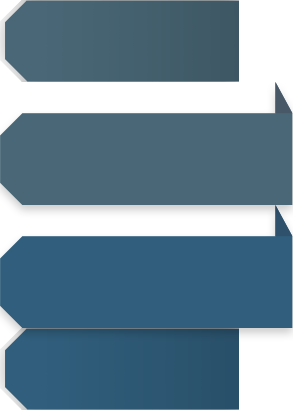
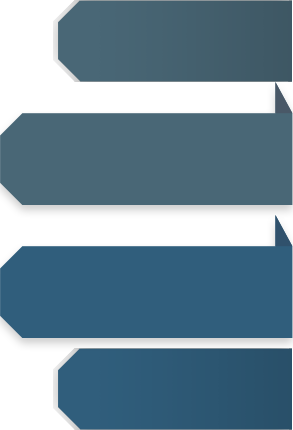
ADD page de publication MOD carrousel

diff --git a/public/css/screen.css b/public/css/screen.css
@@ -1,6 +1,6 @@
 @charset "utf-8";
 /* ------ GENERAL --------------- */
-body{
+body{background-attachment : fixed;
 	background-image : url('../images/fond_principal.jpg');
 	background-position : center top;
 	padding : 0;
@@ -63,7 +63,7 @@ margin : 75px 5px 0;
 }
 #header img.right{
 	float : right;
-	margin : 10px 10px 0 0;
+	margin : 16px 10px 0 0;
 	}
 /* FIN HEADER*/	
 /* --------------- MENU PRINCIPAL + RECHERCHE ------------------------- */
@@ -81,6 +81,7 @@ margin : 75px 5px 0;
 	height : 38px;
 	border : none;
 	margin : 0 0 0 6px ;
+	cursor : pointer;
 	background : transparent url('../images/btn_recherche.png') no-repeat left top;
 	text-indent : -9999px;
 }
@@ -139,19 +140,20 @@ margin : 75px 5px 0;
 	font-size : 14px;
 	top: 36px;
 	left:0;
-
 }
+#ul_principal li ul li a{font-size : 15px;}
+#ul_principal li ul li:hover{margin-top : -2px; font-weight : bold; text-shadow : 0 0 5px #fff ;  }
 #menu_main .jeux {
-	background : transparent url('../images/fond_blancTransparent.png') no-repeat 250px 2px ;
+	background : transparent url('../images/fond_blancTransparent.png') no-repeat 421px 2px ;
 }
 #menu_main .communaute {
-	background : transparent url('../images/fond_blancTransparent.png') 800px 2px no-repeat;
+	background : transparent url('../images/fond_blancTransparent.png') 287px 2px no-repeat;
 }
 #menu_main .joueurs {
-	background : transparent url('../images/fond_blancTransparent.png') 800px 2px no-repeat;
+	background : transparent url('../images/fond_blancTransparent.png') 192px 2px no-repeat;
 }
 #menu_main .enquete {
-	background : transparent url('../images/fond_blancTransparent.png') 800px 2px no-repeat;
+	background : transparent url('../images/fond_blancTransparent.png') 96px 2px no-repeat;
 }
 #menu_main .krysalis {
 	background : transparent url('../images/fond_blancTransparent.png') 0px 2px no-repeat;
@@ -206,7 +208,7 @@ margin : 75px 5px 0;
 .navigation{
 	position :absolute;
 	top : 18px;
-	right : 16px;
+	right : 15px;
 }
 .navigation h3{
 	color : white;
@@ -216,15 +218,33 @@ margin : 75px 5px 0;
 	line-height : 82px;
 	vertical-align : middle;
 	padding-left : 23px;
-	background : url('../images/carrousel/btn_pagHaut.png') no-repeat top left;
+	background : url('../images/carrousel/btn_pagHaut.png') no-repeat right top;
+}
+.navigation h3.bas{
+	background : url('../images/carrousel/btn_pagBas.png') no-repeat right top;
 }
 
-.navigation h3:hover, .navigation h3.active{
-	background-position : left bottom;
+.navigation h3:hover, .navigation .active:hover{
+	position : absolute;
+	z-index : 50;
+	background-position : 0 -215px;
+	height : 133px;
+	line-height : 92px; /* centrer le texte : largeur de l'onglet(92) + 5 px de margin top*/
+	font-size : 1.8em;
+	width : 293px;
+	margin-left : -37px;
+}
+.navigation h3.active{
+	background-position : right bottom;
 }
 
 .navigation h3:active{
-	background-position : left top;
+	position : absolute;
+	z-index : 50;
+	background-position : 0 -82px;
+	margin-top : 10px;
+	margin-left : -37px;
+	/*margin-top : -11px;*/
 }
 
 
@@ -233,6 +253,8 @@ margin : 75px 5px 0;
 	padding : 111px 69px 10px 69px;
 	background : url('../images/bg_resumeHome.png') repeat-y center top;
 	}
+	
+#resume a, #resume:visited{color : #369; text-decoration : underline;}
 /*-------------- FIN DU CARROUSEL -----------------*/	
 /*------------  MENU DE PAGE ---------------------*/
 #menu_content{ position : relative;float : left;}
@@ -419,6 +441,7 @@ text-decoration : none;
 	vertical-align : middle ;
 	
 }
+/*#infos select{border : 1px solid #ccc;}*/
 #infos #birthday{ margin-left : 12%;}
 #infos  p label.radio{
 	padding :0  3px 0 34%;
@@ -444,6 +467,31 @@ width : auto;
 #contact_form #champ_com{width : auto; height : auto;}	
 
 #contact_form textarea{clear : both;width : 450px; height : 140px;}
+
+/************************************************/
+/*        PAGE PUBLICATIONS                     */
+/************************************************/
+#articles_publies{margin-top : 10px; clear : both}
+#page h4{font-variant : small-caps;font-size: 1.3em;;}
+
+.article{position : relative;clear : both;}
+.conteneur_img{
+	position : relative;
+	width : 263px; 
+	min-height : 138px;
+	background : url('../images/bg_publiImg.png') no-repeat left top;
+	float : left;}
+.publi_img{padding : 5px 0 0 5px;
+width : 250px;
+height : 125px;
+overflow: hidden;}
+
+.resume_article{float : right; width : 60%;margin :0 20px 10px 0;}
+.resume_article h5{margin : 0; font-size : 1.1em;}
+.resume_article p{margin : 0.25em 0;}
+
+
+
 /*------------------- FIN PAGE-----------------------------------*/
 /*-------------------- FOOTER -------------------------------------*/
 #footer{position : relative;clear : both;

diff --git a/modules/home/index.php b/modules/home/index.php
@@ -33,6 +33,6 @@
         
     </div>
     <div id="resume">
-        <p>Lorem ipsum dolor sit amet, consectetur adipiscing elit. Quisque urna nisl, tempor nec consectetur eget, condimentum non odio. Phasellus eget velit nec dolor rhoncus varius. Phasellus velit justo, ultrices id tristique eget, placerat eu nisi. Proin sagittis tellus egestas lectus iaculis egestas mollis enim fringilla. In facilisis accumsan mi et accumsan. Aliquam nunc ipsum, tincidunt id interdum at, ullamcorper at urna. Pellentesque ut pharetra massa. Sed nec arcu est, ut mattis leo. Aliquam nibh velit, pretium vel ultrices et, suscipit ut nulla. Duis faucibus eros felis, vel lobortis massa. Etiam condimentum mi sit amet leo pretium sed porttitor eros interdum. Vivamus ligula ligula, viverra id fermentum porta, luctus in metus. Etiam est tortor, scelerisque id consequat sollicitudin, gravida in sapien. Nullam laoreet ipsum ac massa varius sollicitudin blandit lorem suscipit. Aenean suscipit sapien eget sapien venenatis ornare. Nulla eu risus quam<a href="javascript : void(0);">...lire la suite</a></p>
+        <p>Lorem ipsum dolor sit amet, consectetur adipiscing elit. Quisque urna nisl, tempor nec consectetur eget, condimentum non odio. Phasellus eget velit nec dolor rhoncus varius. Phasellus velit justo, ultrices id tristique eget, placerat eu nisi. Proin sagittis tellus egestas lectus iaculis egestas mollis enim fringilla. In facilisis accumsan mi et accumsan. Aliquam nunc ipsum, tincidunt id interdum at, ullamcorper at urna. Pellentesque ut pharetra massa. Sed nec arcu est, ut mattis leo. Aliquam nibh velit, pretium vel ultrices et, suscipit ut nulla. Duis faucibus eros felis, vel lobortis massa. Etiam condimentum mi sit amet leo pretium sed porttitor eros interdum. Vivamus ligula ligula, viverra id fermentum porta, luctus in metus. Etiam est tortor, scelerisque id consequat sollicitudin, gravida in sapien. Nullam laoreet ipsum ac massa varius sollicitudin blandit lorem suscipit. Aenean suscipit sapien eget sapien venenatis ornare. Nulla eu risus quam...<a href="javascript : void(0);">lire la suite</a></p>
         </div><!-- -->
 </div>

diff --git a/layout/partials/menu_main.php b/layout/partials/menu_main.php
@@ -24,8 +24,8 @@
         <li id="joueurs" onmouseover="display_ss_menu('ssMenu_joueurs');" onmouseout="display_ss_menu('ssMenu_joueurs');">
         	<a href="users/">Joueurs</a>
             <ul id="ssMenu_joueurs" class="hidden">
-                <li><a href="javascript : void(0);">informations personnelles</a></li>
-                <li><a href="javascript : void(0);">avancée dans le jeu</a></li>
+                <li><a href="users/">informations personnelles</a></li>
+                <li><a href="users/">avancée dans le jeu</a></li>
                 <li><a href="javascript : void(0);">échangez vos cartes</a></li>
                 <li><a href="javascript : void(0);">téléchargements</a></li>
             </ul>

diff --git a/modules/home/contact.php b/modules/home/contact.php
@@ -9,7 +9,7 @@
                     <label><strong> Pseudo : </strong><input type="text"/></label>
                     <label><strong> E-mail : </strong><input type="text"/></label>
                     <p>
-                    	<label for="com"><strong>Commentaire</strong><input name="com"  id="com"type="radio"/></label>
+                    	<label for="com"><strong>Commentaire</strong><input name="com"  id="com" type="radio" checked="checked"/></label>
                     	<label for="probleme" class="radio"><strong>Problème</strong><input type="radio" name="com"  id="probleme"/></label>
                     </p>
                     <label id="champ_com"><textarea></textarea></label>

diff --git a/layout/partials/menu_content.php b/layout/partials/menu_content.php
@@ -2,10 +2,9 @@
 <ul id="menu">
 	<li><h4><a>Informations personnelles</a></h4>
     	<ul>
-        	<li><a href="">mon profil</a></li>
-            <li><a href="" class="decal_categ">mes liens</a></li>
-            <li><a href="">publications</a></li>
-            <li><a href="" class="decal_categ">liste des amis <span>(2)</span></a></li>
+        	<li><a href="krysalis/">mon profil</a></li>
+            <li><a href="users/publications.html"  class="decal_categ">publications</a></li>
+            <li><a href="">liste des amis <span>(2)</span></a></li>
         </ul>
     </li>
     <li><h4><a>Avancée dans le jeu</a></h4>

diff --git a/layout/partials/header.php b/layout/partials/header.php
@@ -7,7 +7,7 @@
             </legend>-->
             <label for="identifiant"><input type="text" name="identifiant" id="identifiant" value="identifiant"/></label>
             <label for="password"></label>
-            <input name="password" id="password"/>
+            <input name="password" id="password" type="password" value="mot de passe"/>
             <input type="submit" value="connexion" id="btn_connexion"/>
             </fieldset>
         </form>

diff --git a/modules/investigation/index.php b/modules/investigation/index.php
@@ -1,2 +1,4 @@
+<div id="content">
 mode enquete
 <?php include FILEROOT . 'layout/partials/partial_aside.php'; ?>
+</div>

diff --git a/modules/404.php b/modules/404.php
@@ -1,1 +1,3 @@
+<div id="content">
 404
+</div>
